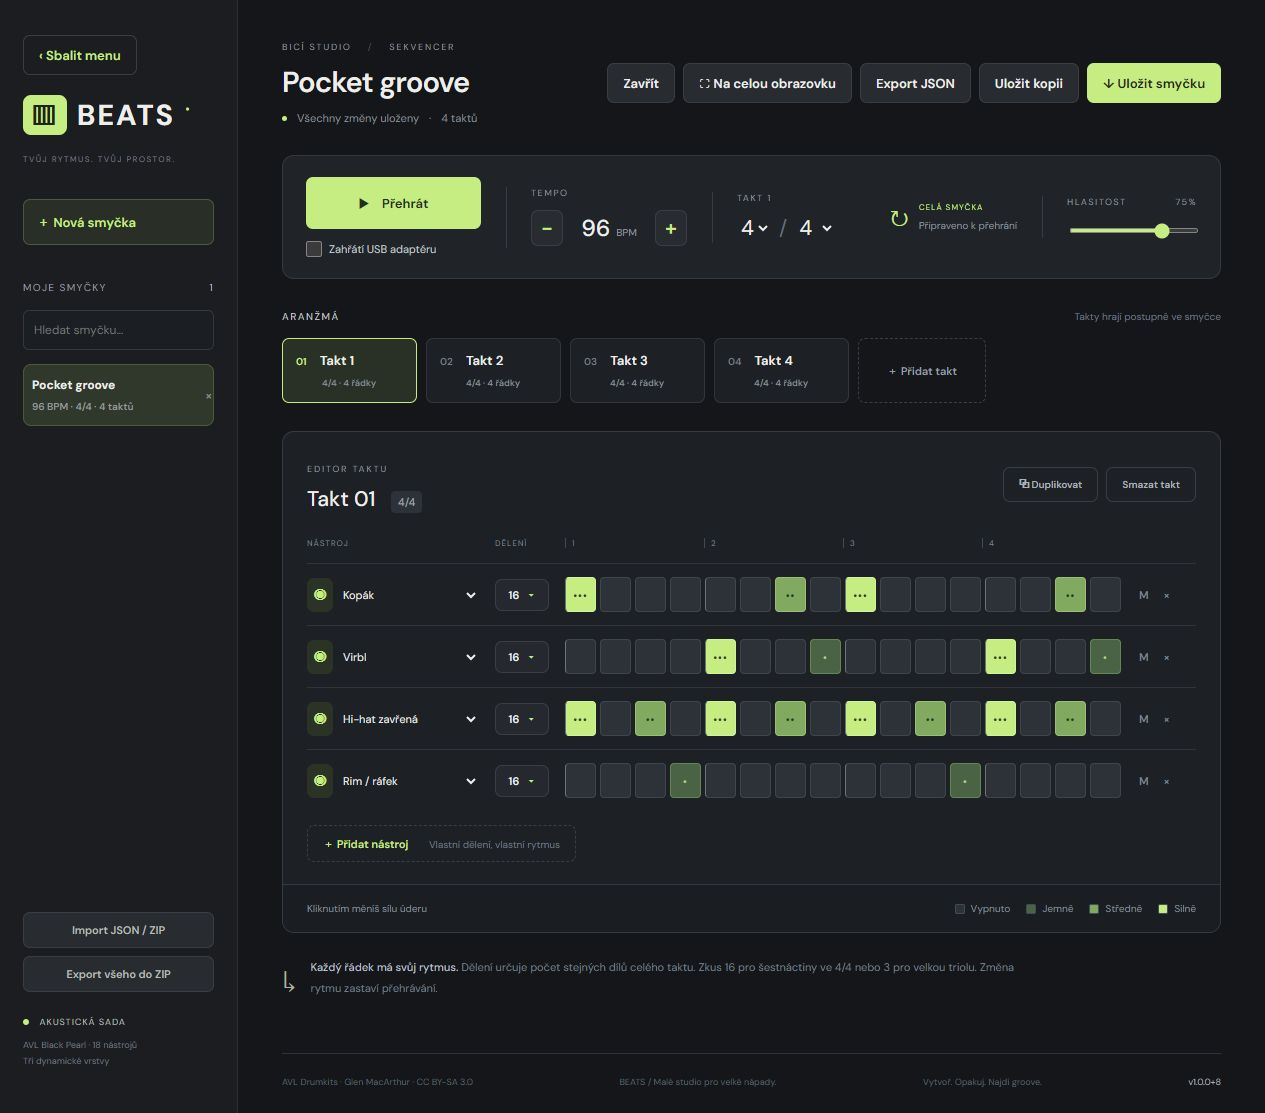
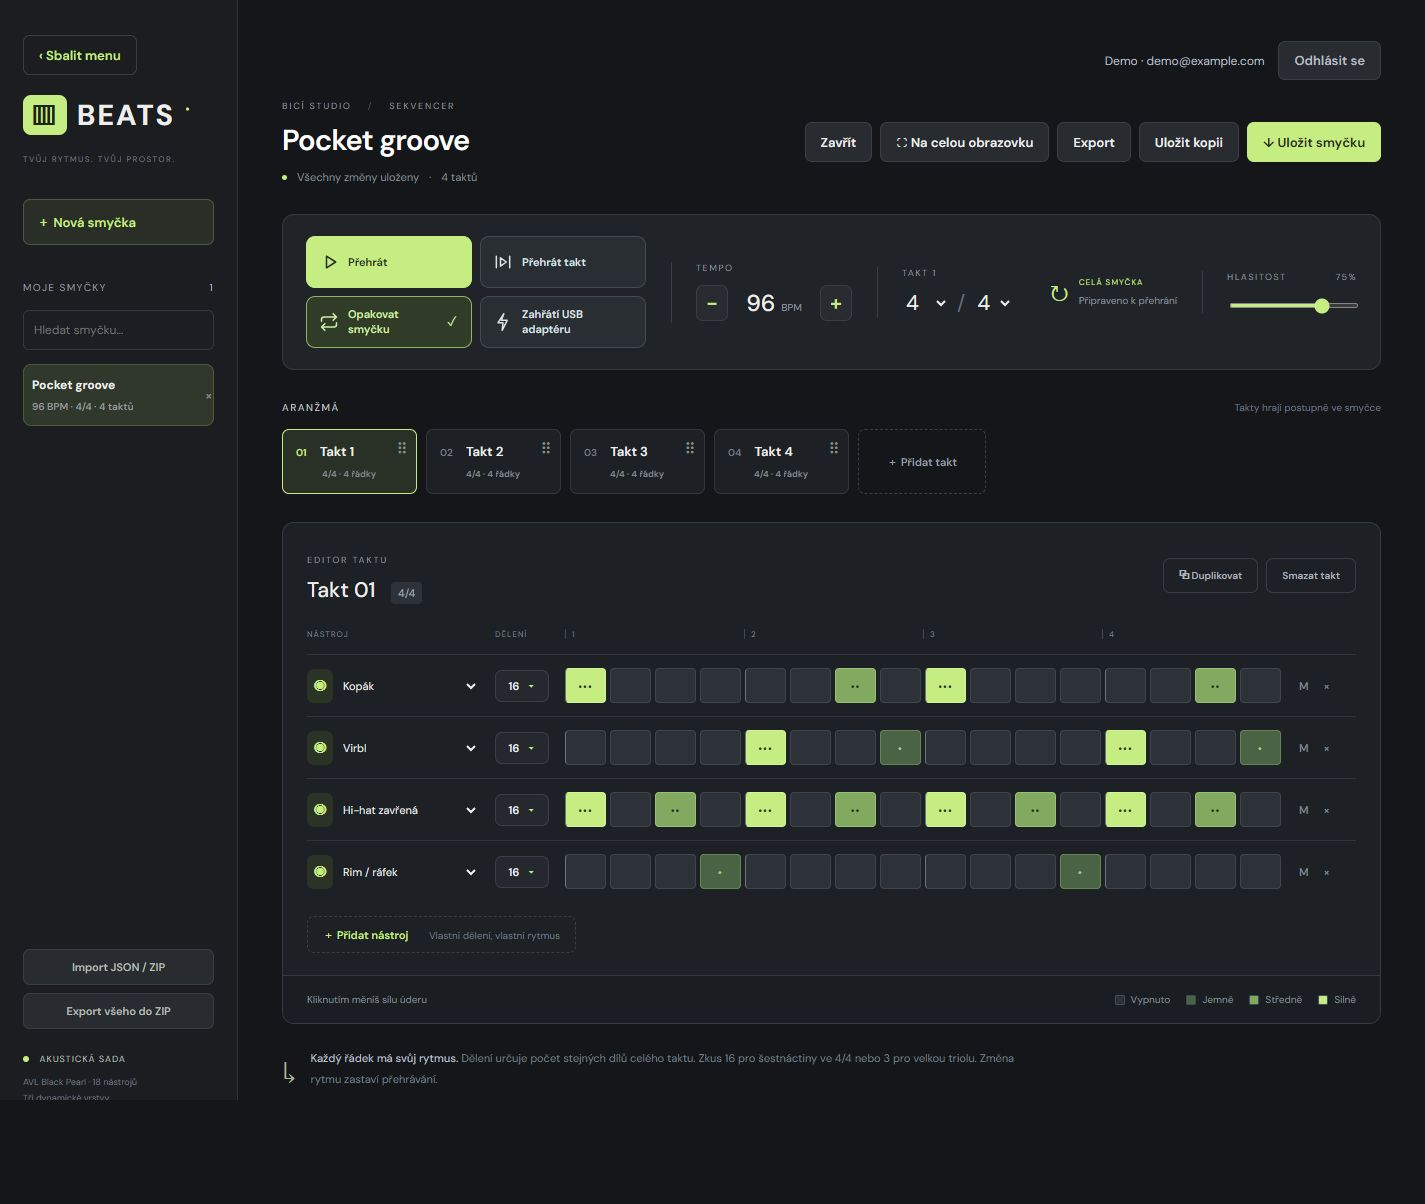
Refresh landing screenshots and descriptions for current studio features

diff --git a/src/LandingPage.jsx b/src/LandingPage.jsx
@@ -5,7 +5,7 @@ import "./landing.css";
 
 export function LandingPage({ children }) {
   const preview = useRef(null);
-  const screenshot = `./images/studio-${language}.png`;
+  const screenshot = `./images/studio-${language}.png?v=${__BEATS_VERSION__}`;
   return (
     <div className="landing">
       <header className="landing-header">
@@ -39,7 +39,7 @@ export function LandingPage({ children }) {
             </h1>
             <p className="landing-intro">
               {t(
-                "Od jednoduchého beatu po vlastní aranžmá. Poskládej bicí smyčku, dolaď každý úder a hraj pořád dokola.",
+                "Poskládej vlastní bicí groove. Přehrávej celou smyčku nebo jeden takt, dolaď každý úder a vezmi si rytmus s sebou.",
               )}
             </p>
             <div className="landing-signin" id="start">
@@ -106,8 +106,8 @@ export function LandingPage({ children }) {
             <span>{t("BPM pro tvoje tempo")}</span>
           </div>
           <div>
-            <strong>JSON / ZIP</strong>
-            <span>{t("tvoje smyčky s tebou")}</span>
+            <strong>MIDI / PDF</strong>
+            <span>{t("do hudebního programu i do not")}</span>
           </div>
         </section>
 
@@ -138,7 +138,7 @@ export function LandingPage({ children }) {
               <h3>{t("Naklikej svůj groove")}</h3>
               <p>
                 {t(
-                  "Vyber nástroje a rozmísti údery. Jemné ghost notes, běžné údery i silné akcenty mají vlastní zvukové samply.",
+                  "Kombinuj rovné osminy s triolami: každý nástroj má vlastní dělení. Tři síly úderu mají vlastní samply, od jemných ghost notes po akcenty.",
                 )}
               </p>
             </article>
@@ -161,7 +161,7 @@ export function LandingPage({ children }) {
               <h3>{t("Dej každému taktu prostor")}</h3>
               <p>
                 {t(
-                  "Přidávej a duplikuj takty. Měň jejich taktové označení i dělení jednotlivých řádků a sleduj rytmus při přehrávání.",
+                  "Přesouvej takty tažením myší. Nový takt převezme rozložení předchozího, duplikát i jeho údery. Taktové označení nastavíš pro každý takt zvlášť.",
                 )}
               </p>
             </article>
@@ -171,12 +171,12 @@ export function LandingPage({ children }) {
               </span>
               <div className="landing-mini-files" aria-hidden="true">
                 <span>↳ groove.json</span>
-                <span>↓ loops.zip</span>
+                <span>↓ groove.mid · groove.pdf</span>
               </div>
               <h3>{t("Vrať se ke svým nápadům")}</h3>
               <p>
                 {t(
-                  "Ulož si vlastní knihovnu. Exportuj jednu smyčku nebo všechny najednou a kdykoliv je importuj zpět.",
+                  "Exportuj MIDI do hudebního programu nebo PDF s bubenickými notami ve společné osnově. JSON a ZIP slouží k záloze a opětovnému importu smyček.",
                 )}
               </p>
             </article>

diff --git a/src/translations.js b/src/translations.js
@@ -1,5 +1,15 @@
 // Czech source strings map to English. User-authored names are never translated.
 export const english = {
+  "Poskládej vlastní bicí groove. Přehrávej celou smyčku nebo jeden takt, dolaď každý úder a vezmi si rytmus s sebou.":
+    "Build your own drum groove. Play the full loop or a single bar, refine every hit and take your rhythm with you.",
+  "Kombinuj rovné osminy s triolami: každý nástroj má vlastní dělení. Tři síly úderu mají vlastní samply, od jemných ghost notes po akcenty.":
+    "Combine straight eighths with triplets: each instrument has its own subdivision. Three velocity layers use separate samples, from soft ghost notes to accents.",
+  "Přesouvej takty tažením myší. Nový takt převezme rozložení předchozího, duplikát i jeho údery. Taktové označení nastavíš pro každý takt zvlášť.":
+    "Drag bars to rearrange them. New bars inherit the previous layout; duplicates include its hits too. Set a different time signature for each bar.",
+  "Exportuj MIDI do hudebního programu nebo PDF s bubenickými notami ve společné osnově. JSON a ZIP slouží k záloze a opětovnému importu smyček.":
+    "Export MIDI to your music software or a PDF drum score on a shared staff. Use JSON and ZIP to back up and re-import your loops.",
+  "do hudebního programu i do not": "from music software to sheet music",
+
   "Přesuň takt tažením. Klávesnicí: Alt + šipka vlevo nebo vpravo.":
     "Drag to move this bar. Keyboard: Alt + Left or Right arrow.",
   "Legenda nástrojů": "Instrument legend",
